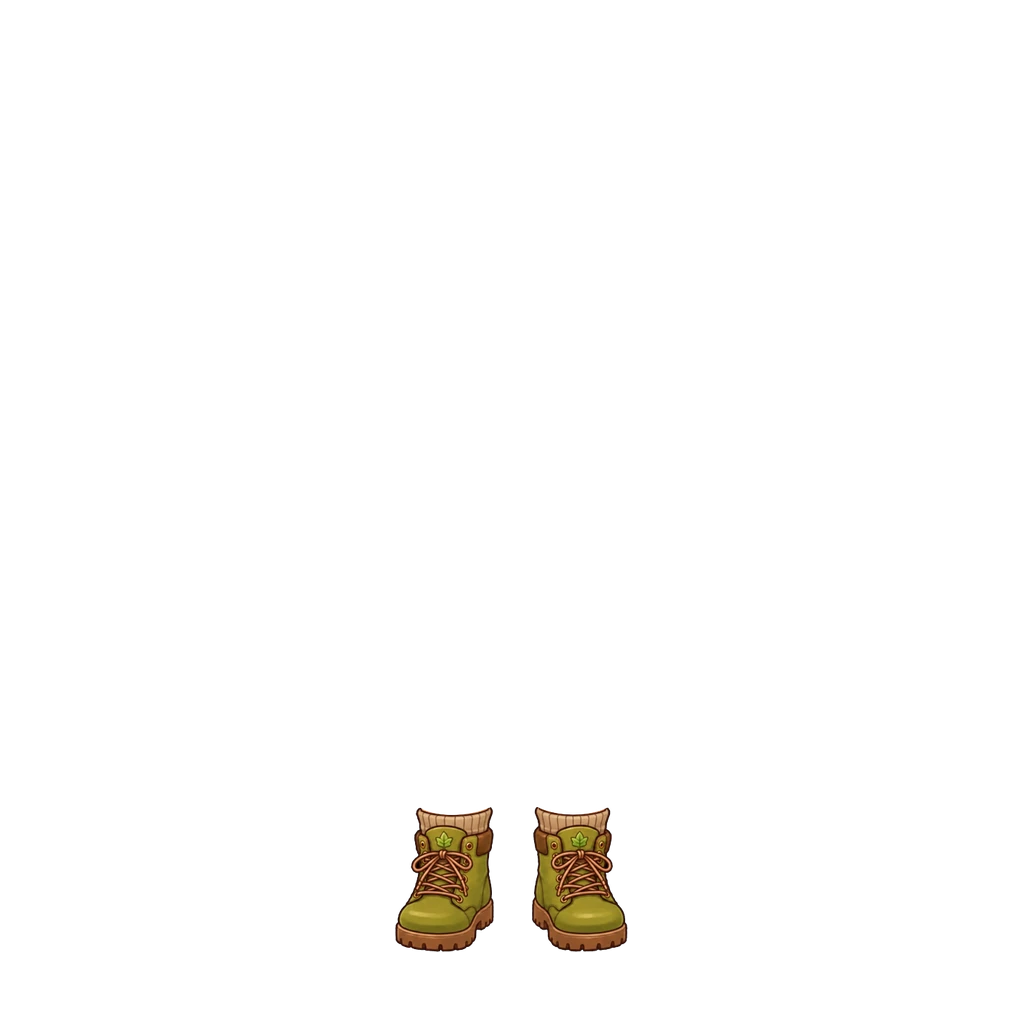
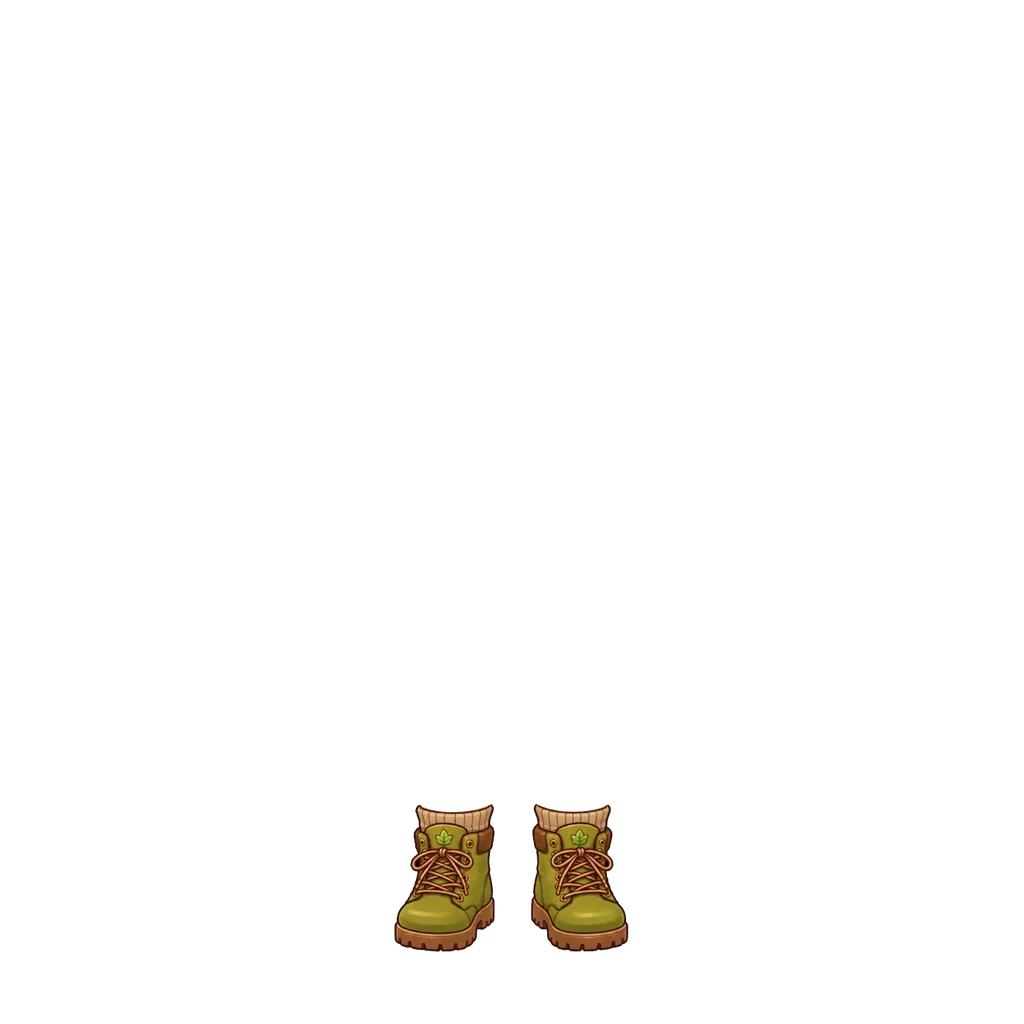
남아 정글 부츠 → 도토리 부츠, 2% 크게 (#841)
밑창·양말 가운데를 고정한 채 두 짝 배율 0.72→0.7344. img ?v=2.

Claude-Session: https://claude.ai/code/session_018maNuYqDfFyRSe9uKpZhPR

Changed region(s): [[0.4062, 0.7812, 0.5938, 0.9062], [0.375, 0.875, 0.4062, 0.9375], [0.5938, 0.875, 0.625, 0.9062]]

diff --git a/src/data/avatarEquipment.js b/src/data/avatarEquipment.js
@@ -399,11 +399,12 @@ export const AVATAR_CATALOG = [
      [2026-10-03] 화면 왼쪽 짝만 왼쪽으로 1 더(+2). 탑재 상자 (391,835,630,955). img ?v=3.
      [2026-10-03] 화면 왼쪽 짝만 왼쪽으로 1 더(+1). 탑재 상자 (390,835,630,955). img ?v=4. */
   { id: "shoes_pirate_kid", slot: "shoes", label: "꼬마해적 신발", emoji: "🥾", price:DECOR_PRICE.common, rarity: "common", theme: "pirate", forGender: "boy", img: "assets/avatar/shoes/pirate-boots-kid-boy.webp?v=4", thumb: "assets/avatar/thumb/shoes_pirate_kid.webp" },
-  /* 정글 부츠 [2026-10-03] — 남아. 초록 끈 부츠(나뭇잎 무늬) + 니트 양말 두 짝, 사용자 원화 339×204. 정글 탐험대 옷과 짝.
+  /* 도토리 부츠(처음 이름 정글 부츠) [2026-10-03] — 남아. 초록 끈 부츠(나뭇잎 무늬) + 니트 양말 두 짝, 사용자 원화 339×204. 정글 탐험대 옷과 짝.
      처음 "정글 부츠"로 넣었던 shoes_jungle 은 이름을 라이트 부츠로 바꿔 그대로 두고, 이 신발은 새 id 로 넣었다.
      두 짝을 따로 잘라 원화 양말 가운데(왼짝 x82 · 오른짝 x56)를 남아 다리 가운데(x450.5 · x574.5)에, 배율 0.72, 왼짝 +4·오른짝 −2,
-     밑창 아래끝 y952(발 안쪽이 밑창 아래로 비치지 않게). 맨발 2px. 탑재 상자 (395,805,628,952). */
-  { id: "shoes_jungle_leaf", slot: "shoes", label: "정글 부츠",   emoji: "🥾", price:DECOR_PRICE.common, rarity: "common", theme: "adventure", forGender: "boy", img: "assets/avatar/shoes/jungle-boots-leaf-boy.webp", thumb: "assets/avatar/thumb/shoes_jungle_leaf.webp" },
+     밑창 아래끝 y952(발 안쪽이 밑창 아래로 비치지 않게). 맨발 2px. 탑재 상자 (395,805,628,952).
+     [2026-10-03] 사용자 조정 — 이름 정글 부츠 → 도토리 부츠, 두 짝 2% 크게(배율 0.7344, 밑창·양말 가운데 고정). 탑재 상자 (394,802,629,952). img ?v=2. */
+  { id: "shoes_jungle_leaf", slot: "shoes", label: "도토리 부츠",   emoji: "🥾", price:DECOR_PRICE.common, rarity: "common", theme: "adventure", forGender: "boy", img: "assets/avatar/shoes/jungle-boots-leaf-boy.webp?v=2", thumb: "assets/avatar/thumb/shoes_jungle_leaf.webp" },
   /* 들꽃 신발 [2026-10-02] — 여아 신발 첫 아이템. 올리브 끈 부츠 두 짝(흰 양말 목, 주황 끈·밑창) 사용자 원화 264×191.
      두 짝을 따로 잘라 각각 다리 위에 얹었다 — 원화 발목 가운데(왼짝 x61 · 오른짝 x51.5)를 여아 다리 가운데(x455 · x556)에,
      밑창 아래끝을 y942(발바닥 y940 바로 아래)에 맞췄다. 배율 0.64 — 발등·발가락이 다 가려지고(맨발 0px) 부츠 목이 종아리 아래(y820)에서 끝난다.

diff --git a/art-src/README.md b/art-src/README.md
@@ -591,4 +591,4 @@ bbox로 여백만 잘라내고 배포본은 높이 480px로 축소했다(전부 
 | thumb-src-shoes_strawberry.webp | **상점 목록 그림 여아 딸기 구두 (shoes_strawberry, 사용자 원화 2026-10-03)** — 입히는 신발이 아니라 상점 카드에만 보이는 그림(한 짝 옆모습). 268×280 투명 배경, 세로 160px 로 줄여 탑재(thumb ?v=2) | avatar/thumb/shoes_strawberry.webp |
 | jungle-boots-boy-src.webp | **정글 부츠 원화 남아 (사용자 원화 2026-10-03)** — 369×235 투명 배경, 카키 하이탑 + 회색 양말, 불 들어오는 밑창 두 짝. 두 짝(x1~161 · x213~367)을 따로 잘라 배율 0.68, 양말 가운데를 남아 다리 가운데(x450.5·x574.5)에 두고 왼짝 +3, 밑창 아래끝 y956(안쪽으로 올라간 밑창 아래로 발가락이 비치지 않게). 맨발 0px. 탑재 상자 (385,796,637,956). **[2026-10-03 조정]** 화면 왼쪽 짝만 1% 크게·왼쪽으로 2, 상자 (382,795,637,956) · img ?v=2. 화면 왼쪽 짝만 1% 더 크게(0.6937), 상자 (382,793,637,956) · img ?v=3. 상점 그림은 원화를 세로 160px 로 | avatar/shoes/jungle-boots-boy.webp · thumb/shoes_jungle.webp |
 | pirate-boots-kid-boy-src.webp | **꼬마해적 신발 원화 남아 (사용자 원화 2026-10-03)** — [2026-10-03] 한 번 뺐다가 같은 날 되살림. — 340×177 투명 배경, 갈색 버클 부츠(접힌 목) 두 짝. 짝마다 위아래를 딱 맞게 잘라(왼 x0~138·y12~175, 오른 x207~339·y3~167) 배율 0.72, 부츠목 가운데를 남아 다리 가운데(x450.5·x574.5)에 두고 왼짝 +4·오른짝 −3, 밑창 아래끝 y955. 맨발 9px. 탑재 상자 (394,836,628,955). **[2026-10-03 조정]** 두 짝 1% 크게(0.7272)·왼짝 왼쪽 1·오른짝 오른쪽 1, 상자 (392,835,630,955) · img ?v=2. 왼짝만 왼쪽 1 더, 상자 (391,835,630,955) · img ?v=3. 왼짝만 왼쪽 1 더, 상자 (390,835,630,955) · img ?v=4. 상점 그림은 원화를 세로 160px 로 | avatar/shoes/pirate-boots-kid-boy.webp · thumb/shoes_pirate_kid.webp |
-| jungle-boots-leaf-boy-src.webp | **정글 부츠 원화 남아 (사용자 원화 2026-10-03)** — 339×204 투명 배경, 초록 끈 부츠(나뭇잎 무늬) + 니트 양말 두 짝(shoes_jungle_leaf; 처음 정글 부츠였던 shoes_jungle 은 라이트 부츠로 이름만 바뀜). 두 짝(x0~137 · x206~337)을 따로 잘라 배율 0.72, 양말 가운데를 남아 다리 가운데(x450.5·x574.5)에 두고 왼짝 +4·오른짝 −2, 밑창 아래끝 y952. 맨발 2px. 탑재 상자 (395,805,628,952). 상점 그림은 원화를 세로 160px 로 | avatar/shoes/jungle-boots-leaf-boy.webp · thumb/shoes_jungle_leaf.webp |
+| jungle-boots-leaf-boy-src.webp | **정글 부츠 원화 남아 (사용자 원화 2026-10-03)** — 339×204 투명 배경, 초록 끈 부츠(나뭇잎 무늬) + 니트 양말 두 짝(shoes_jungle_leaf; 처음 정글 부츠였던 shoes_jungle 은 라이트 부츠로 이름만 바뀜). 두 짝(x0~137 · x206~337)을 따로 잘라 배율 0.72, 양말 가운데를 남아 다리 가운데(x450.5·x574.5)에 두고 왼짝 +4·오른짝 −2, 밑창 아래끝 y952. 맨발 2px. 탑재 상자 (395,805,628,952). **[2026-10-03 조정]** 이름 도토리 부츠로, 두 짝 2% 크게(0.7344), 상자 (394,802,629,952) · img ?v=2. 상점 그림은 원화를 세로 160px 로 | avatar/shoes/jungle-boots-leaf-boy.webp · thumb/shoes_jungle_leaf.webp |
